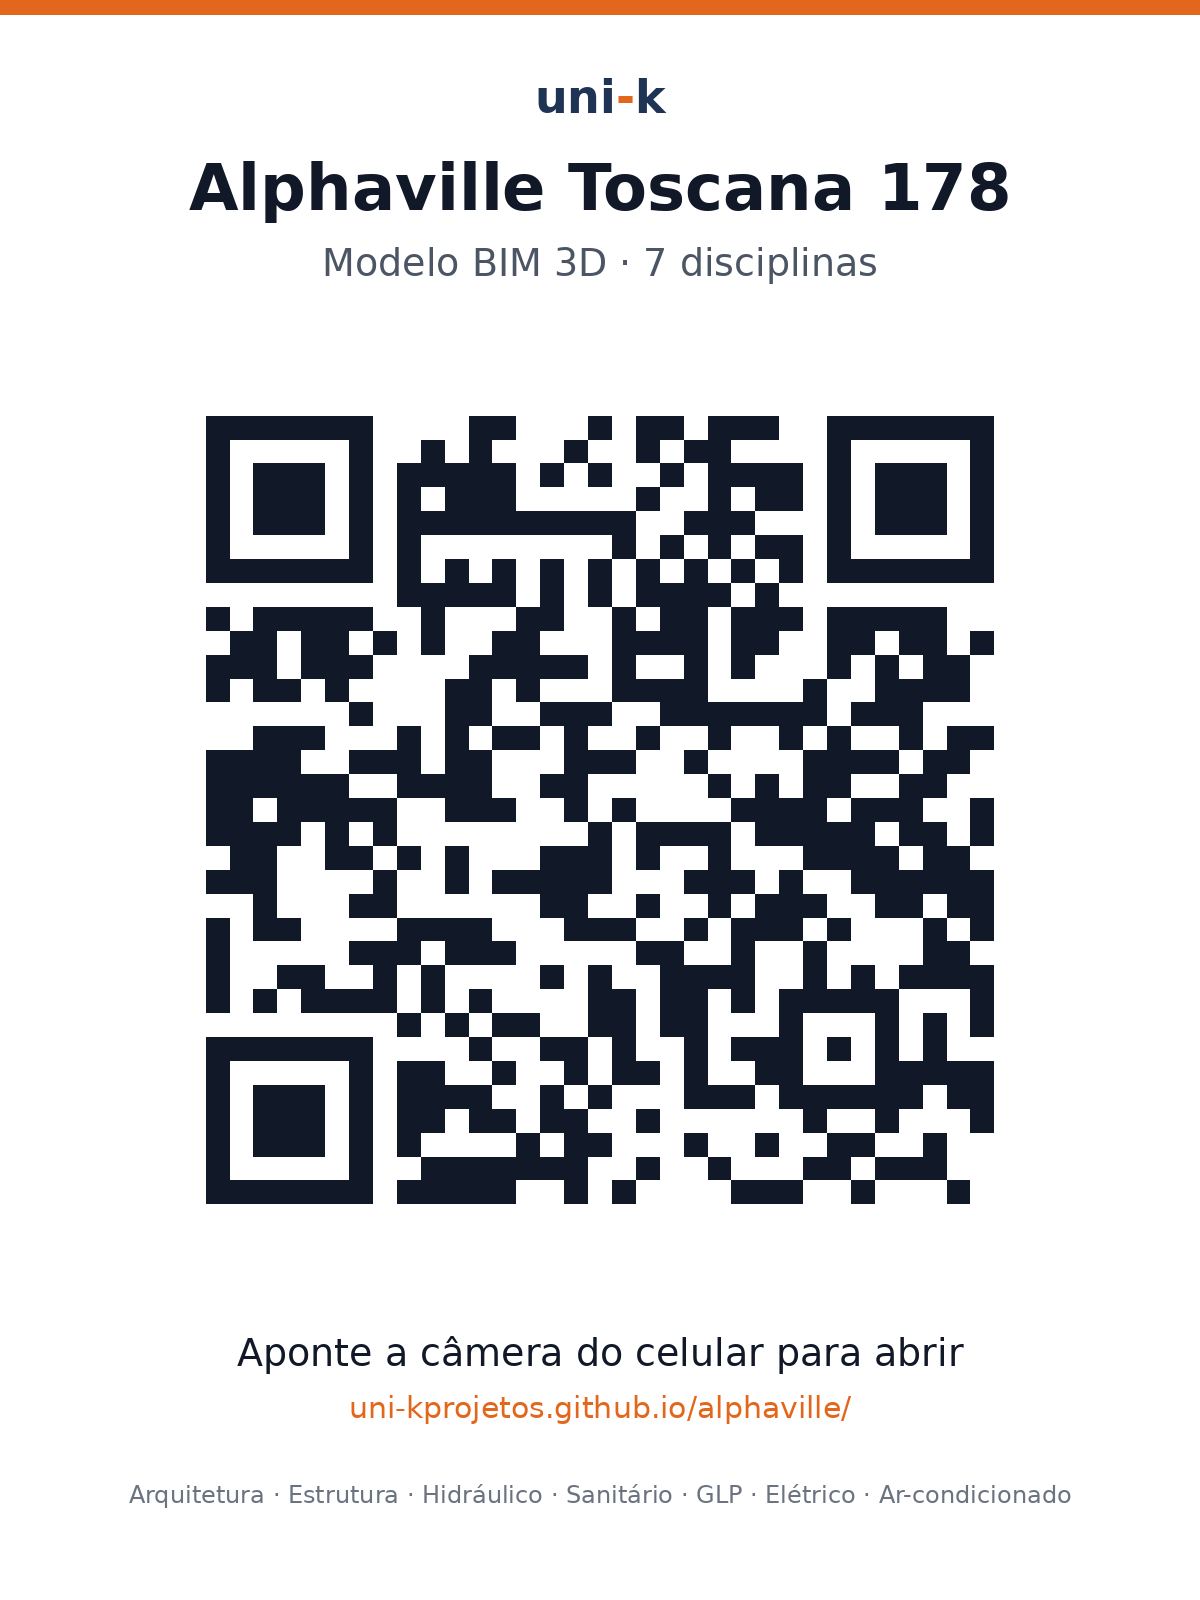
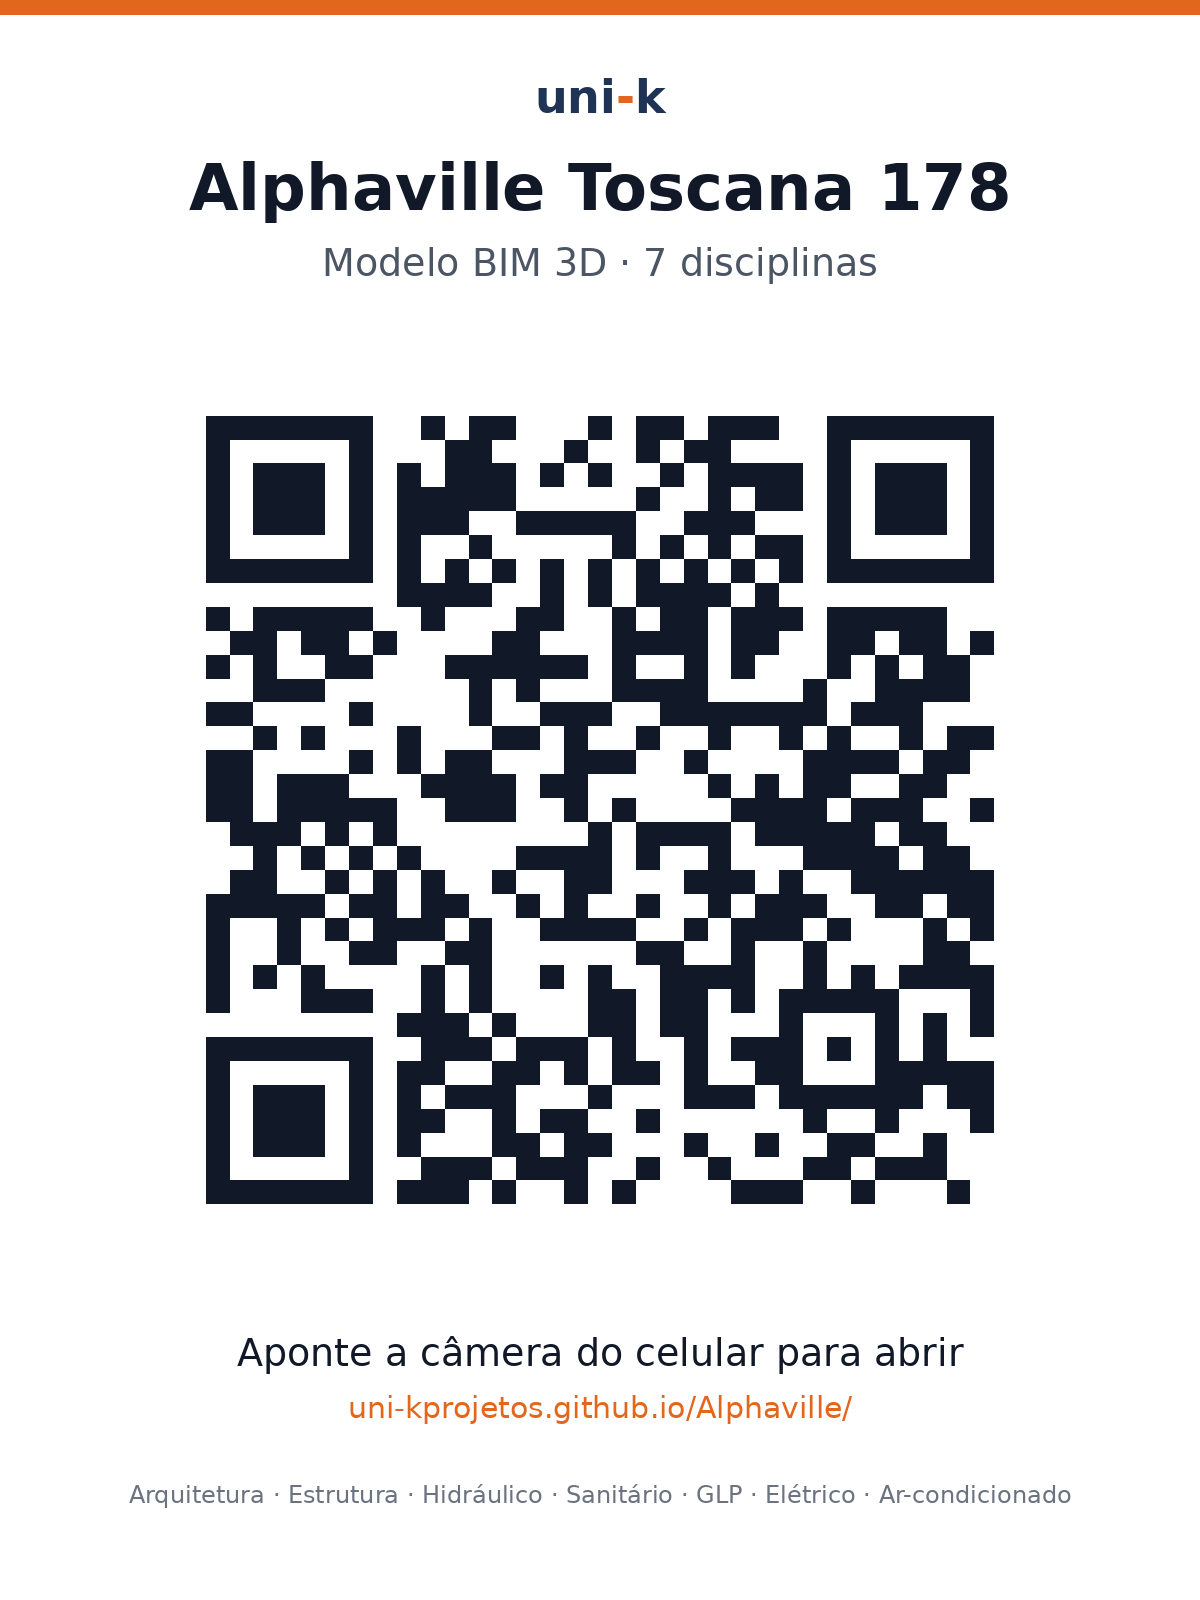
QR Code com o endereco exato do GitHub Pages

diff --git a/index.html b/index.html
@@ -175,7 +175,7 @@ footer.foot .r{margin-left:auto;overflow:hidden;text-overflow:ellipsis}
 
 <script type="application/json" id="viewer-config">{"project": "Alphaville Toscana 178", "models": ["01-ALPHAVILLE-TOSCANA-178-ESTRUTURA-R02.ukm.b64.txt", "01-ALPHAVILLE-TOSCANA-178-ARQUITETURA-R01.ukm.b64.txt", "01-ALPHAVILLE-TOSCANA-178-GLP-R01.ukm.b64.txt", "01-ALPHAVILLE-TOSCANA-178-ELETRICO-R01.ukm.b64.txt", "01-ALPHAVILLE-TOSCANA-178-HIDRAULICO-R01.ukm.b64.txt", "01-ALPHAVILLE-TOSCANA-178-SANITARIO-R01.ukm.b64.txt", "01-ALPHAVILLE-TOSCANA-178-ARCOND-R01.ukm.b64.txt"]}</script>
 </head><body>
-<noscript><div class="nojs"><b>O visualizador 3D não pode rodar nesta pré-visualização.</b><p>No iPhone, os apps Arquivos, WhatsApp e Mail mostram o HTML sem executar o 3D. Abra este link no Safari:</p><p class="lk"><a href="https://uni-kprojetos.github.io/alphaville/">https://uni-kprojetos.github.io/alphaville/</a></p><p>No computador, abra o arquivo no Chrome, Edge ou Safari.</p></div></noscript>
+<noscript><div class="nojs"><b>O visualizador 3D não pode rodar nesta pré-visualização.</b><p>No iPhone, os apps Arquivos, WhatsApp e Mail mostram o HTML sem executar o 3D. Abra este link no Safari:</p><p class="lk"><a href="https://uni-kprojetos.github.io/Alphaville/">https://uni-kprojetos.github.io/Alphaville/</a></p><p>No computador, abra o arquivo no Chrome, Edge ou Safari.</p></div></noscript>
 <div class="fatal" id="fatal" hidden><span></span><button class="btn" id="fatalClose">Fechar</button></div>
 <div class="app" id="app">
   <header class="top">
